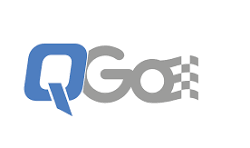
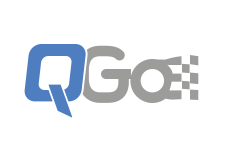
chore(branding): replace Expo/Vite template assets with QGo branding
- Customer app: new QGo app icon, adaptive icon, splash icon and
  favicon replacing the Expo template images.
- Crisp qgo-wordmark.png plus new @2x/@3x variants for high-DPI screens
  (customer app) and a sharper staff-web wordmark.
- Staff web: favicon.svg replaced with the QGo mark (was the Vite logo);
  index.html title is now "QGo Staff".
- app.json: app name "QGo" and the location permission text now says
  "QGo uses your location only to verify you are near the branch when
  you check in."

diff --git a/apps/staff-web/index.html b/apps/staff-web/index.html
@@ -8,7 +8,7 @@
     <link rel="preconnect" href="https://fonts.googleapis.com" />
     <link rel="preconnect" href="https://fonts.gstatic.com" crossorigin />
     <link href="https://fonts.googleapis.com/css2?family=Inter:wght@400;500;600;700&display=swap" rel="stylesheet" />
-    <title>QMS Staff</title>
+    <title>QGo Staff</title>
   </head>
   <body>
     <div id="root"></div>
